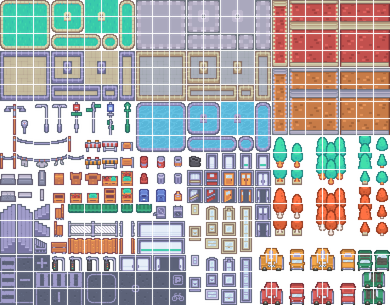
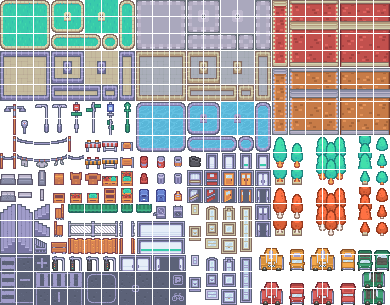
fix: 사용자 방 나갈 때 인원수 버그 수정, 채팅 인풋 관련 스타일 수정, 캐릭터와 맵 어긋남 수정 (#78)
* chore: 채팅창 인풋 및 간격 변경

* fix: 캐릭터 이미지 크기 변경 및 setDisplaySize 제거
- 맵과 캐릭터 어긋남 고침

* chore: urban 이미지 교체
- 화질 더 좋아짐

* fix: 사용자 나갈때 방 인원수 버그 수정

* ----공유용(수정예정)----

* fix: 채팅 인풋 스타일 변경

---------

diff --git a/client/src/components/phaser/map/phaserScene.ts b/client/src/components/phaser/map/phaserScene.ts
@@ -91,8 +91,8 @@ export class MeetsInPhaserScene extends Phaser.Scene {
         this.load.tilemapTiledJSON("map", "/map/map.json");
         for (let i = 1; i <= 6; i++) {
             this.load.spritesheet(`player${i}`, `/players/player${i}.png`, {
-                frameWidth: 32,
-                frameHeight: 32,
+                frameWidth: 16,
+                frameHeight: 16,
             });
         }
     }
@@ -104,12 +104,7 @@ export class MeetsInPhaserScene extends Phaser.Scene {
         const tileUrban = map.addTilesetImage("urban", "urban")!;
 
         map.createLayer("ground", [tileBase, tileUrban], 0, 0);
-        this.layerBlockOutdoor = map.createLayer(
-            "block-outdoor",
-            [tileBase, tileUrban],
-            0,
-            0,
-        )!;
+        this.layerBlockOutdoor = map.createLayer("block-outdoor", [tileBase, tileUrban], 0, 0)!;
         this.layerBlockWall = map.createLayer("block-wall", [tileBase, tileUrban], 0, 0)!;
         this.layerBlockFurniture = map.createLayer(
             "block-furniture",
@@ -123,7 +118,7 @@ export class MeetsInPhaserScene extends Phaser.Scene {
 
         layerChairBack!.setDepth(2);
 
-        this.physics.world.setBounds(0,0, map.widthInPixels, map.heightInPixels);
+        this.physics.world.setBounds(0, 0, map.widthInPixels, map.heightInPixels);
         // this.cameras.main.setBounds(0,0, map.widthInPixels, map.heightInPixels);
         this.cameras.main.scrollX = -map.widthInPixels / 2;
         this.cameras.main.scrollY = -map.heightInPixels / 2;
@@ -407,7 +402,6 @@ export class MeetsInPhaserScene extends Phaser.Scene {
         player.anims.play(`idle-down-${this.myCharacterId}`);
         player.setOrigin(0, 0);
         player.setSize(16, 16);
-        player.setDisplaySize(16, 16);
 
         this.physics.add.collider(player, this.layerBlockOutdoor);
         this.physics.add.collider(player, this.layerBlockWall);
@@ -441,7 +435,6 @@ export class MeetsInPhaserScene extends Phaser.Scene {
         otherPlayer.anims.play(`idle-down-${playerInfo.characterId}`);
         otherPlayer.setOrigin(0, 0);
         otherPlayer.setSize(16, 16);
-        otherPlayer.setDisplaySize(16, 16);
         otherPlayer.playerId = playerInfo.playerId;
         otherPlayer.characterId = playerInfo.characterId;
         otherPlayer.nameTag = this.createNameTag(

diff --git a/server/src/modules/rooms/rooms.gateway.ts b/server/src/modules/rooms/rooms.gateway.ts
@@ -10,7 +10,6 @@ import {
     WebSocketServer,
 } from "@nestjs/websockets";
 import { Types } from "mongoose";
-import { RoomsService } from "./rooms.service";
 import { Server, Socket } from "socket.io";
 import { MessageInfoDTO } from "./dto/message-info.dto";
 import { TimerDto } from "./dto/timer.dto";
@@ -40,8 +39,7 @@ interface ITimer {
 export class RoomsGateway implements OnGatewayConnection, OnGatewayInit, OnGatewayDisconnect {
     private logger = new Logger("room");
     private rooms: Map<string, User[]> = new Map();
-
-    constructor(private readonly roomsService: RoomsService) {}
+    private socketRooms: Map<string, string> = new Map();
 
     @WebSocketServer() server: Server;
 
@@ -55,6 +53,22 @@ export class RoomsGateway implements OnGatewayConnection, OnGatewayInit, OnGatew
 
     handleDisconnect(@ConnectedSocket() socket) {
         this.logger.log(`소켓 연결 끊어짐 - socketId: ${socket.id}`);
+
+        const roomId = this.socketRooms.get(socket.id);
+
+        if (roomId && this.rooms.has(roomId)) {
+            const users = this.rooms.get(roomId);
+            const filteredUsers = users.filter((user) => user.socketId !== socket.id);
+
+            if (filteredUsers.length === 0) {
+                this.rooms.delete(roomId);
+            } else {
+                this.rooms.set(roomId, filteredUsers);
+                this.server.to(roomId).emit("room_users", filteredUsers);
+            }
+        }
+
+        this.socketRooms.delete(socket.id);
     }
 
     @SubscribeMessage("join_room")
@@ -63,6 +77,8 @@ export class RoomsGateway implements OnGatewayConnection, OnGatewayInit, OnGatew
         @ConnectedSocket() socket: Socket,
     ) {
         const { roomId, userId, userName } = data;
+
+        this.socketRooms.set(socket.id, roomId);
 
         if (!this.rooms.has(roomId)) {
             this.rooms.set(roomId, []);

diff --git a/client/src/app/room/[roomId]/hooks/useChatSocket.ts b/client/src/app/room/[roomId]/hooks/useChatSocket.ts
@@ -23,20 +23,6 @@ const useChatSocket = (params: Params) => {
     };
 
     useEffect(() => {
-        const handleBeforeUnload = () => {
-            roomSocket.emit("leave_room", { roomId, userId: user?.userId });
-            roomSocket.off("new_message");
-            roomSocket.disconnect();
-        };
-
-        window.addEventListener("beforeunload", handleBeforeUnload);
-
-        return () => {
-            window.removeEventListener("beforeunload", handleBeforeUnload);
-        };
-    }, [roomId, user]);
-
-    useEffect(() => {
         if (!user || !roomId) return;
 
         if (!roomSocket.connected) {

diff --git a/client/src/components/chat/messageInput/messageInput.module.scss b/client/src/components/chat/messageInput/messageInput.module.scss
@@ -2,20 +2,22 @@
 @import "../../../styles/mixin";
 
 .input_container {
-    @include custom_input(2px, 30px);
-    display: flex;
-    align-items: center;
-    gap: 7px;
-    padding-right: 11px;
+    @include custom_input(2px, 17px);
 }
 
 .message_textarea {
-    overflow: hidden;
+    display: block;
+    width: 100%;
+    max-height: 76px;
+    padding-right: 33px;
+    scrollbar-width: none;
     resize: none;
-    flex-grow: 1;
 }
 
 .send_button {
+    position: absolute;
+    right: 24px;
+    bottom: 24.4px;
     width: 28px;
     height: 28px;
     border-radius: 50%;

diff --git a/client/src/components/chat/messageInput/messageInput.tsx b/client/src/components/chat/messageInput/messageInput.tsx
@@ -48,6 +48,7 @@ const MessageInput = () => {
             <textarea
                 className={style.message_textarea}
                 placeholder="메세지를 입력하세요."
+                aria-label="메세지 입력"
                 rows={1}
                 ref={textareaRef}
                 value={message}

diff --git a/client/src/components/chat/messageList/messageList.module.scss b/client/src/components/chat/messageList/messageList.module.scss
@@ -1,5 +1,5 @@
 .message_list {
     display: flex;
     flex-flow: column nowrap;
-    row-gap: 14px;
+    row-gap: 8px;
 }
